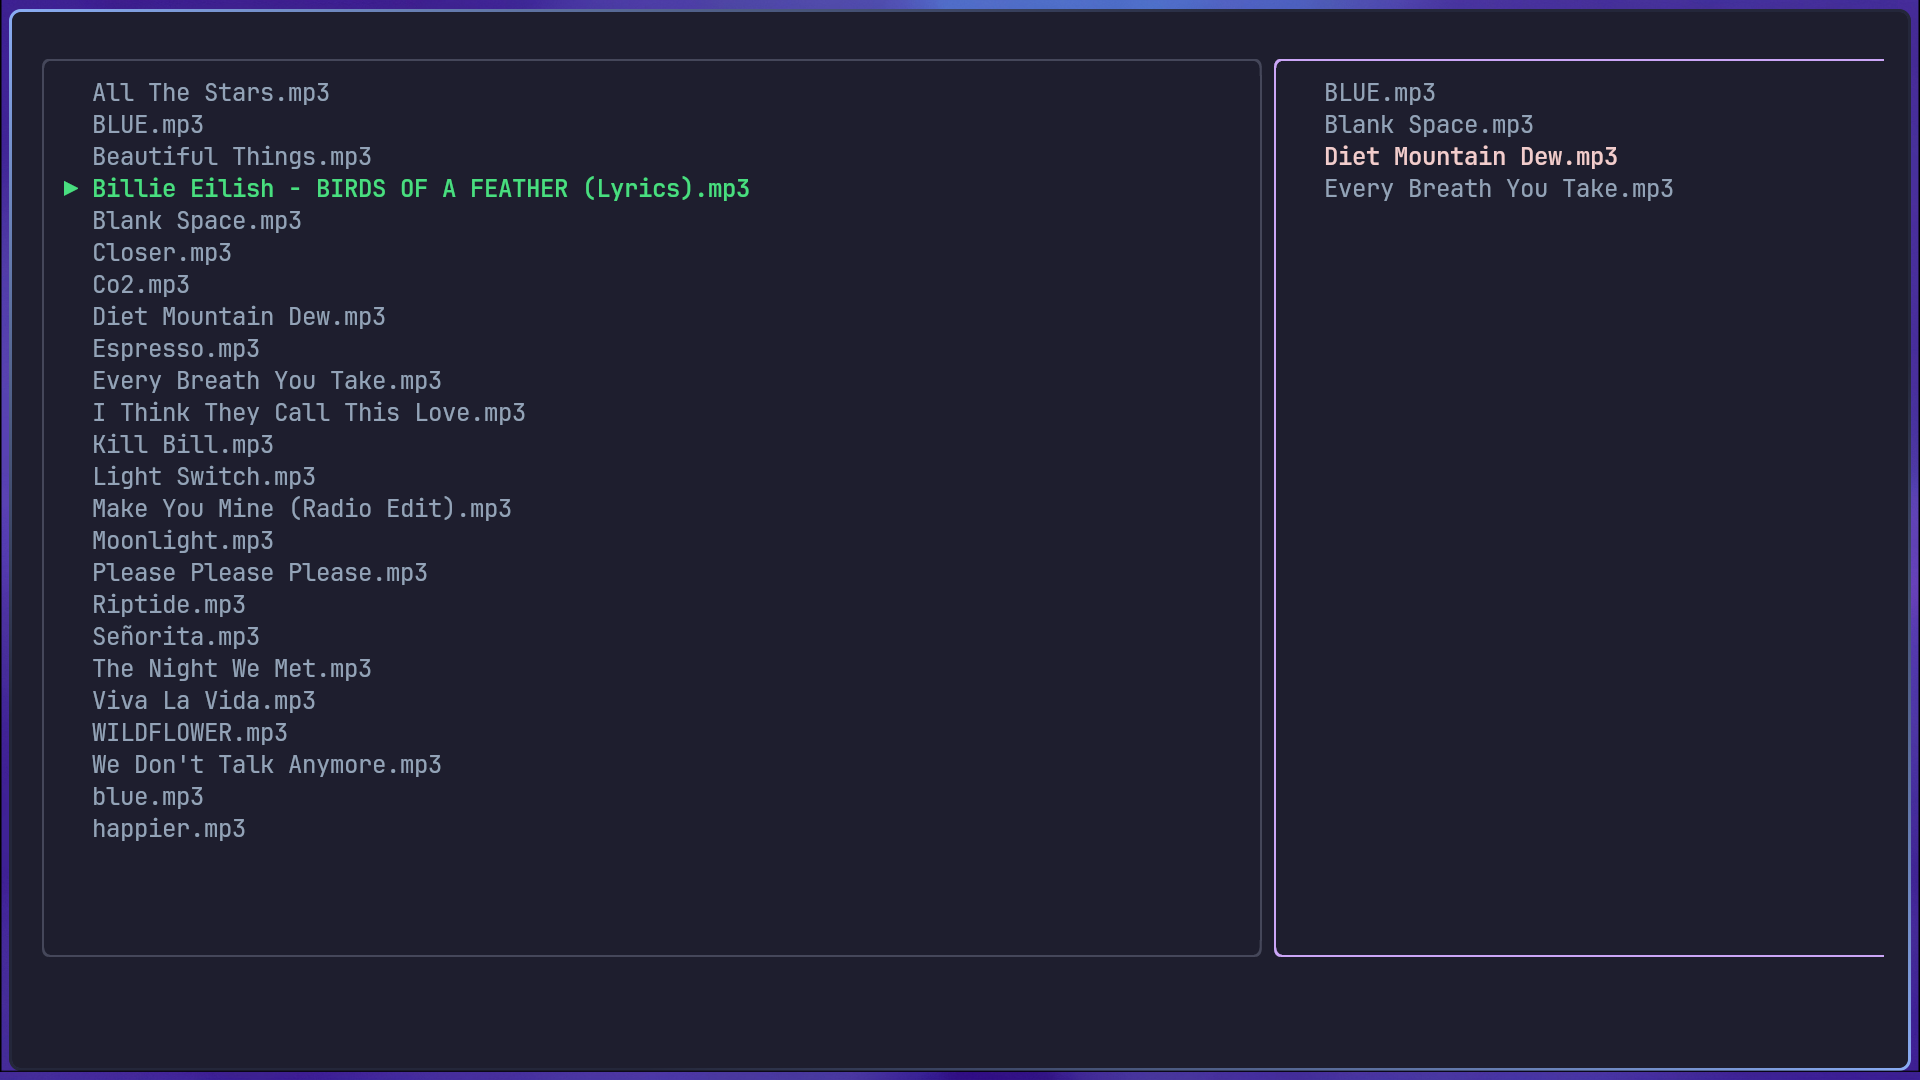
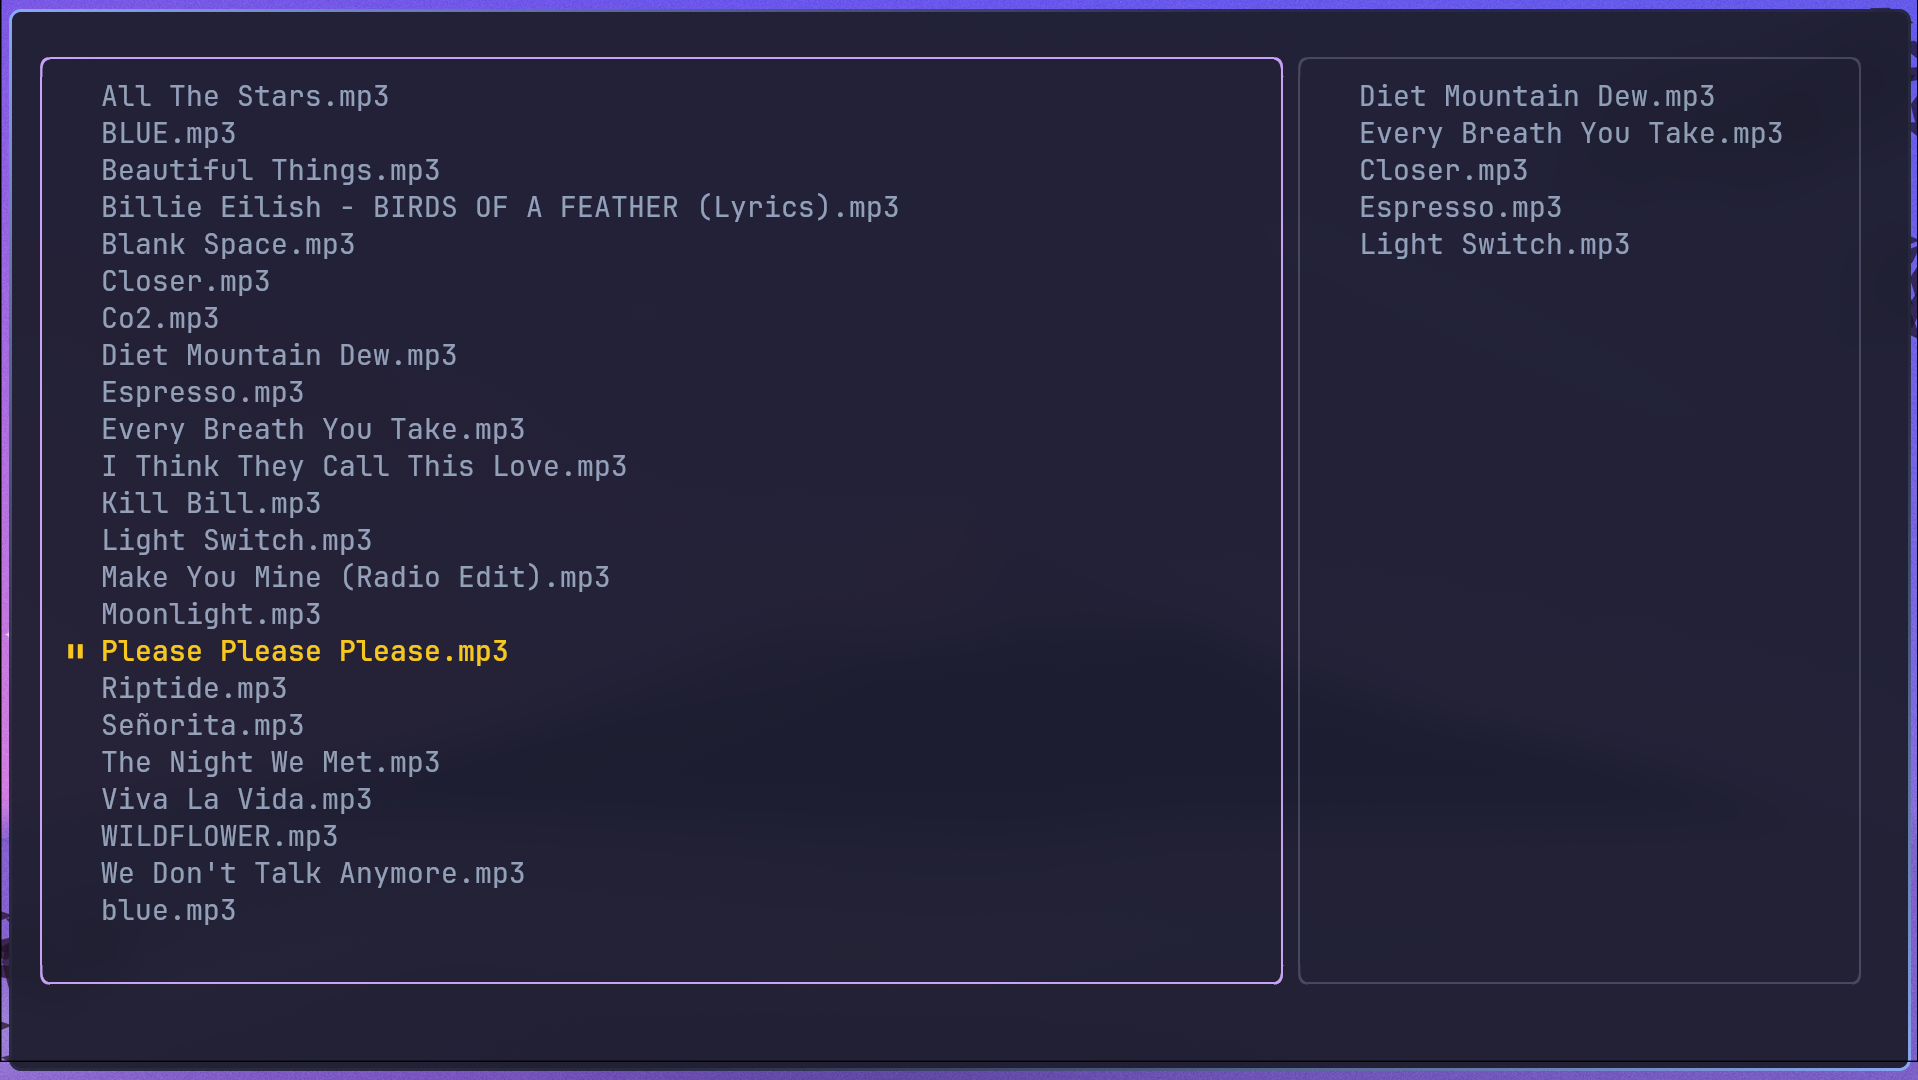
docs 📝: Update an image

Changed region(s): [[0.0, 0.0, 1.0, 1.0]]

diff --git a/internal/app/view.go b/internal/app/view.go
@@ -31,7 +31,7 @@ func (m *Model) View() string {
 		Border(lipgloss.RoundedBorder()).
 		BorderForeground(lipgloss.Color(rightBorderColor)).
 		Padding(0, 0, 0, 1).
-		Width(rightWidth).
+		Width(rightWidth - 3).
 		Height(mainHeight - 1).
 		Render(RenderQueue(m, maxVisibleLines))
 
